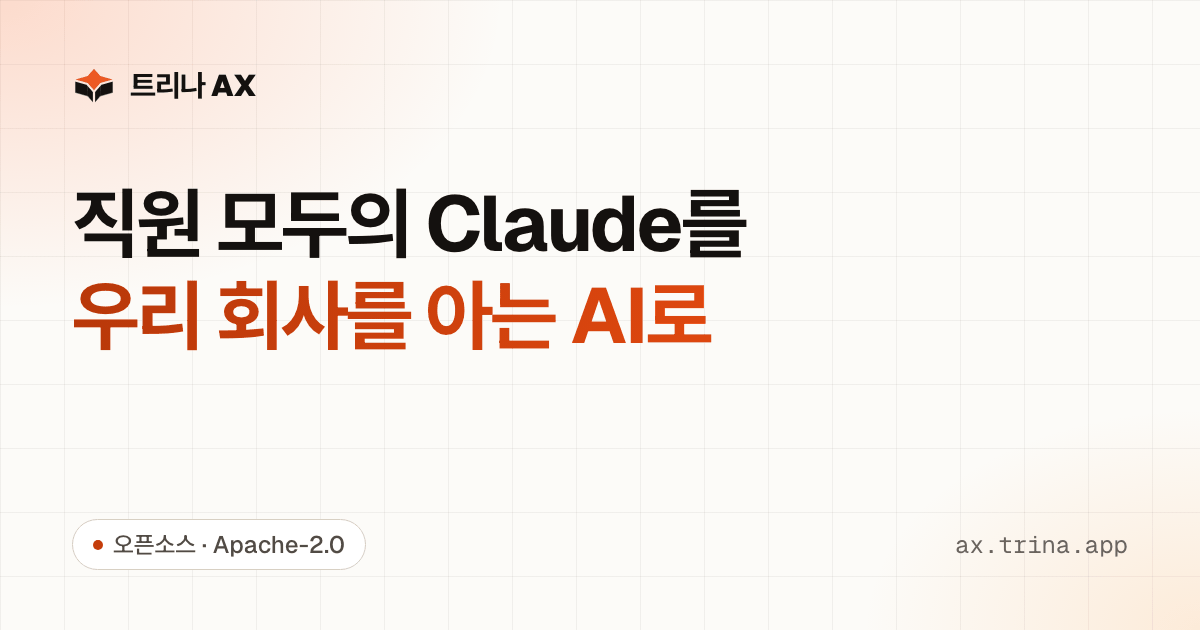
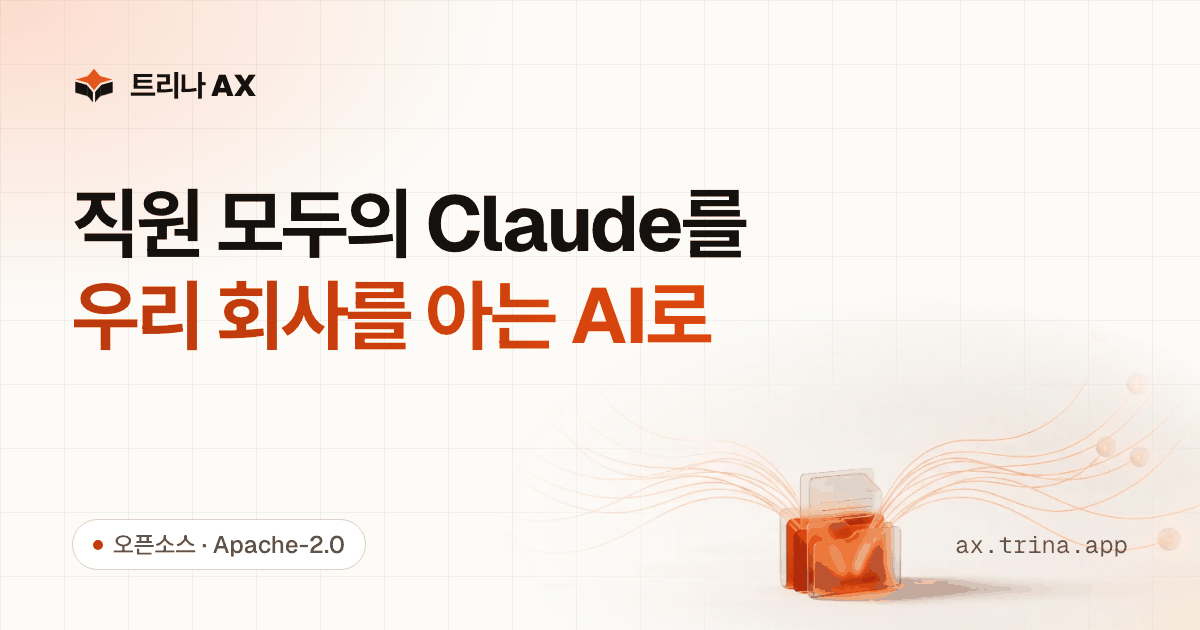
Site: Higgsfield key visuals — hero (light/dark), security vault, call-to-action streaks; social cards with the visual
Four Nano Banana Pro images (2k), WebP in website/public/img (228 KB together). The hero keeps a wash of the page
colour over the headline so the threads never cross the text. Sources and prompts in website/README.md.

Changed region(s): [[0.5242, 0.6635, 0.9558, 0.9651], [0.8633, 0.8444, 0.9867, 0.8746], [0.925, 0.6032, 0.9558, 0.6635]]

diff --git a/website/src/styles/sections.css b/website/src/styles/sections.css
@@ -23,6 +23,21 @@ html[lang="ko"] .section-head h2, html[lang="ko"] .h2 { line-height: 1.28; lette
   -webkit-mask-image: linear-gradient(to bottom, #000 55%, transparent 100%);
   mask-image: linear-gradient(to bottom, #000 55%, transparent 100%);
 }
+.hero-bg::before {
+  /* the key visual: threads from the company folder (behind the product stage) out to everyone's AI. A soft wash of the
+     page colour sits over the middle so the headline and subline stay readable; the threads stay visible at the sides. */
+  --hero-wash: radial-gradient(ellipse 36% 46% at 50% 40%, color-mix(in srgb, var(--bg) 94%, transparent) 0%, color-mix(in srgb, var(--bg) 78%, transparent) 48%, transparent 78%);
+  content: ""; position: absolute; inset: 0;
+  background-image: var(--hero-wash), url(/img/hero-light-2400.webp);
+  background-repeat: no-repeat; background-position: 0 0, 50% 100%; background-size: 100% 100%, auto 92%;
+}
+:root[data-theme="dark"] .hero-bg::before { background-image: var(--hero-wash), url(/img/hero-dark-2400.webp); }
+@media (prefers-color-scheme: dark) { :root:not([data-theme="light"]) .hero-bg::before { background-image: var(--hero-wash), url(/img/hero-dark-2400.webp); } }
+@media (max-width: 900px) {
+  .hero-bg::before { background-image: var(--hero-wash), url(/img/hero-light-1200.webp); background-size: 100% 100%, auto 70%; }
+  :root[data-theme="dark"] .hero-bg::before { background-image: var(--hero-wash), url(/img/hero-dark-1200.webp); }
+}
+@media (max-width: 900px) and (prefers-color-scheme: dark) { :root:not([data-theme="light"]) .hero-bg::before { background-image: var(--hero-wash), url(/img/hero-dark-1200.webp); } }
 /* hairline grid, fading out from the top centre */
 .hero-bg::after {
   content: ""; position: absolute; inset: 0;
@@ -171,6 +186,8 @@ html[lang="ko"] .pay-opt h3 { font-weight: 700; }
 .sec-grid { display: grid; grid-template-columns: minmax(0, 0.9fr) minmax(0, 1.3fr); gap: 64px; align-items: start; }
 .sec-side { position: sticky; top: 104px; }
 .sec-side .section-head { margin-bottom: 0; }
+.sec-vault { display: block; width: 100%; max-width: 420px; height: auto; margin-top: 36px; border-radius: 20px;
+  -webkit-mask-image: radial-gradient(ellipse 75% 75% at 50% 50%, #000 55%, transparent 100%); mask-image: radial-gradient(ellipse 75% 75% at 50% 50%, #000 55%, transparent 100%); }
 .sec-link {
   display: inline-flex; align-items: center; gap: 8px; margin-top: 28px; font-weight: 600; color: var(--accent); text-decoration: none; font-size: 16px;
 }
@@ -320,6 +337,11 @@ html[lang="ko"] .cmp-block h3 { font-weight: 700; }
     linear-gradient(90deg, var(--grid) 1px, transparent 1px) 50% 0 / 56px 56px;
   -webkit-mask-image: radial-gradient(ellipse 80% 90% at 50% 20%, #000 20%, transparent 85%); mask-image: radial-gradient(ellipse 80% 90% at 50% 20%, #000 20%, transparent 85%);
 }
+.cta-box::after {
+  content: ""; position: absolute; z-index: -2; inset: 0;
+  background: linear-gradient(rgba(14, 12, 11, 0.55), rgba(14, 12, 11, 0.78)), url(/img/streaks-2000.webp) no-repeat 50% 50% / cover;
+}
+@media (max-width: 900px) { .cta-box::after { background-image: linear-gradient(rgba(14, 12, 11, 0.55), rgba(14, 12, 11, 0.8)), url(/img/streaks-1000.webp); } }
 .cta-logo { display: inline-block; padding: 12px; border-radius: 18px; background: rgba(255, 255, 255, 0.06); border: 1px solid rgba(255, 255, 255, 0.12); }
 .cta-logo svg { width: 40px; height: 40px; }
 .cta-box h2 { margin: 24px auto 0; font-size: clamp(30px, 4.4vw, 54px); letter-spacing: -0.045em; line-height: 1.06; max-width: 860px; }

diff --git a/website/scripts/og.html b/website/scripts/og.html
@@ -19,6 +19,9 @@
       radial-gradient(ellipse 40% 50% at 100% 100%, rgba(255, 170, 90, 0.20), transparent 70%),
       linear-gradient(rgba(20, 17, 15, 0.05) 1px, transparent 1px) 0 0 / 64px 64px,
       linear-gradient(90deg, rgba(20, 17, 15, 0.05) 1px, transparent 1px) 0 0 / 64px 64px; }
+  /* the site's key visual (Higgsfield, public/img): threads from the company folder to everyone's AI, on the right */
+  .kv { position: absolute; right: -150px; bottom: -10px; width: 1020px; height: auto;
+    -webkit-mask-image: radial-gradient(ellipse 50% 62% at 56% 70%, #000 38%, transparent 80%); mask-image: radial-gradient(ellipse 50% 62% at 56% 70%, #000 38%, transparent 80%); }
   .brand { position: absolute; left: 72px; top: 64px; display: flex; align-items: center; gap: 14px; font-size: 30px; font-weight: 650; letter-spacing: -0.03em; }
   .brand svg { width: 44px; height: 44px; }
   h1 { position: absolute; left: 72px; top: 178px; width: 1060px; font-size: 84px; line-height: 1.06; letter-spacing: -0.045em; font-weight: 600; }
@@ -32,6 +35,7 @@
 </head>
 <body>
 <div class="bg"></div>
+<img class="kv" src="../public/img/hero-light-2400.webp" alt="" />
 <div class="brand">
   <svg viewBox="0 0 32 32"><defs><mask id="m" maskUnits="userSpaceOnUse" x="-8" y="-8" width="48" height="48"><rect x="-8" y="-8" width="48" height="48" fill="#fff"/><path d="M16 19.028L11.497 13.85L2.528 11.25L11.497 8.65L16 3.472L20.503 8.65L29.472 11.25L20.503 13.85Z" fill="#000" stroke="#000" stroke-width="3" stroke-linejoin="round"/><path d="M16 19.028L16 29.528" stroke="#000" stroke-width="1.65"/></mask></defs><g fill="#14110f" stroke="#14110f" stroke-width="0.25" stroke-linejoin="round" mask="url(#m)"><path d="M29.472 11.25L20.503 13.85L20.503 23.35L29.472 20.75Z"/><path d="M11.497 13.85L2.528 11.25L2.528 20.75L11.497 23.35Z"/><path d="M16 19.028L11.497 13.85L11.497 23.35L16 28.528Z"/><path d="M20.503 13.85L16 19.028L16 28.528L20.503 23.35Z"/></g><path d="M16 19.028L11.497 13.85L2.528 11.25L11.497 8.65L16 3.472L20.503 8.65L29.472 11.25L20.503 13.85Z" fill="#ff5b1f"/></svg>
   <b id="brand"></b>

diff --git a/website/README.md b/website/README.md
@@ -63,3 +63,16 @@ uv run --with 'fonttools[woff]' python -I scripts/build-pretendard.py /path/to/P
 
 No prices or money figures anywhere, no customer names or quotes, no "YC", no star counter, no product other than Trina AX, no
 inline scripts or style attributes (the CSP allows none), no external requests at runtime. `test/site.test.ts` checks these.
+
+## Images (Higgsfield, 2026-10-26)
+
+Generated with Higgsfield (`higgsfield generate create nano_banana_pro`, 2k), converted to WebP with `cwebp`, in
+`public/img/`. No text, logos or people in any of them.
+
+| Files | Where | Prompt gist |
+|---|---|---|
+| `hero-light-{1200,2400}.webp`, `hero-dark-{1200,2400}.webp` (21:9) | hero background (`.hero-bg::before`, by theme), social cards | frosted glass folders glowing orange at the bottom centre; thin orange light threads out to a dozen glass orbs (every employee's AI connected to one company hub); warm off-white / near-black |
+| `vault-{560,1120}.webp` (4:3) | security section | frosted glass folder with a brushed-metal keyhole, orange rim light, near-black |
+| `streaks-{1000,2000}.webp` (21:9) | final call to action | long-exposure orange light ribbons on near-black |
+
+The hero keeps a soft wash of the page colour over the middle so the headline stays readable on top of the threads.
